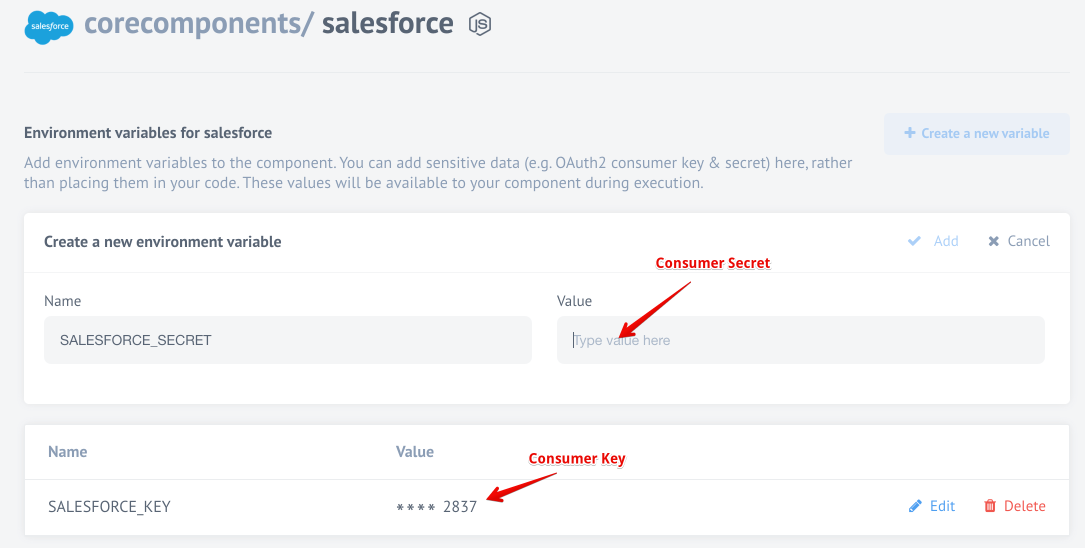
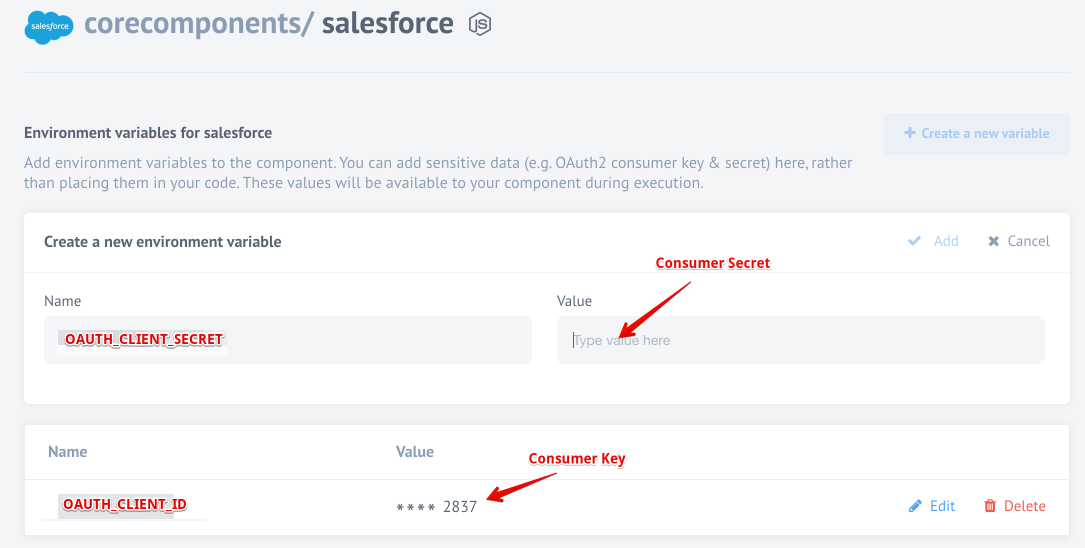
oauth changes

Changed region(s): [[0.0608, 0.5894, 0.2129, 0.6515], [0.0304, 0.8996, 0.1825, 0.9617]]

diff --git a/content/_components/salesforce/index.md b/content/_components/salesforce/index.md
@@ -54,8 +54,10 @@ on your behalf.
 In the component repository you need to specify OAuth Client credentials as
 environment variables:
 
--   `SALESFORCE_KEY` - your OAuth client key
--   `SALESFORCE_SECRET` - your OAuth client secret
+-   `OAUTH_CLIENT_ID` - your OAuth client key
+-   `OAUTH_CLIENT_SECRET` - your OAuth client secret
+
+> **Note**: We renamed the environment variables `SALESFORCE_KEY` and `SALESFORCE_SECRET` to standardize the OAuth workflow.
 
 To get these values you can check the
 [creating OAuth App for Salesforce](creating-oauth-app-for-salesforce) article.

diff --git a/content/_components/salesforce/creating-oauth-app-for-salesforce.md b/content/_components/salesforce/creating-oauth-app-for-salesforce.md
@@ -75,5 +75,7 @@ for this specific component.
 
 You would need to create two variables here:
 
-*   `SALESFORCE_KEY` - your OAuth client key, meaning the **Consumer Key**.
-*   `SALESFORCE_SECRET` - your OAuth client secret, meaning the **Consumer Secret**.
+*   `OAUTH_CLIENT_ID` - your OAuth client key, meaning the **Consumer Key**.
+*   `OAUTH_CLIENT_SECRET` - your OAuth client secret, meaning the **Consumer Secret**.
+
+> **Note**: We renamed the environment variables `SALESFORCE_KEY` and `SALESFORCE_SECRET` to standardize the OAuth workflow.
